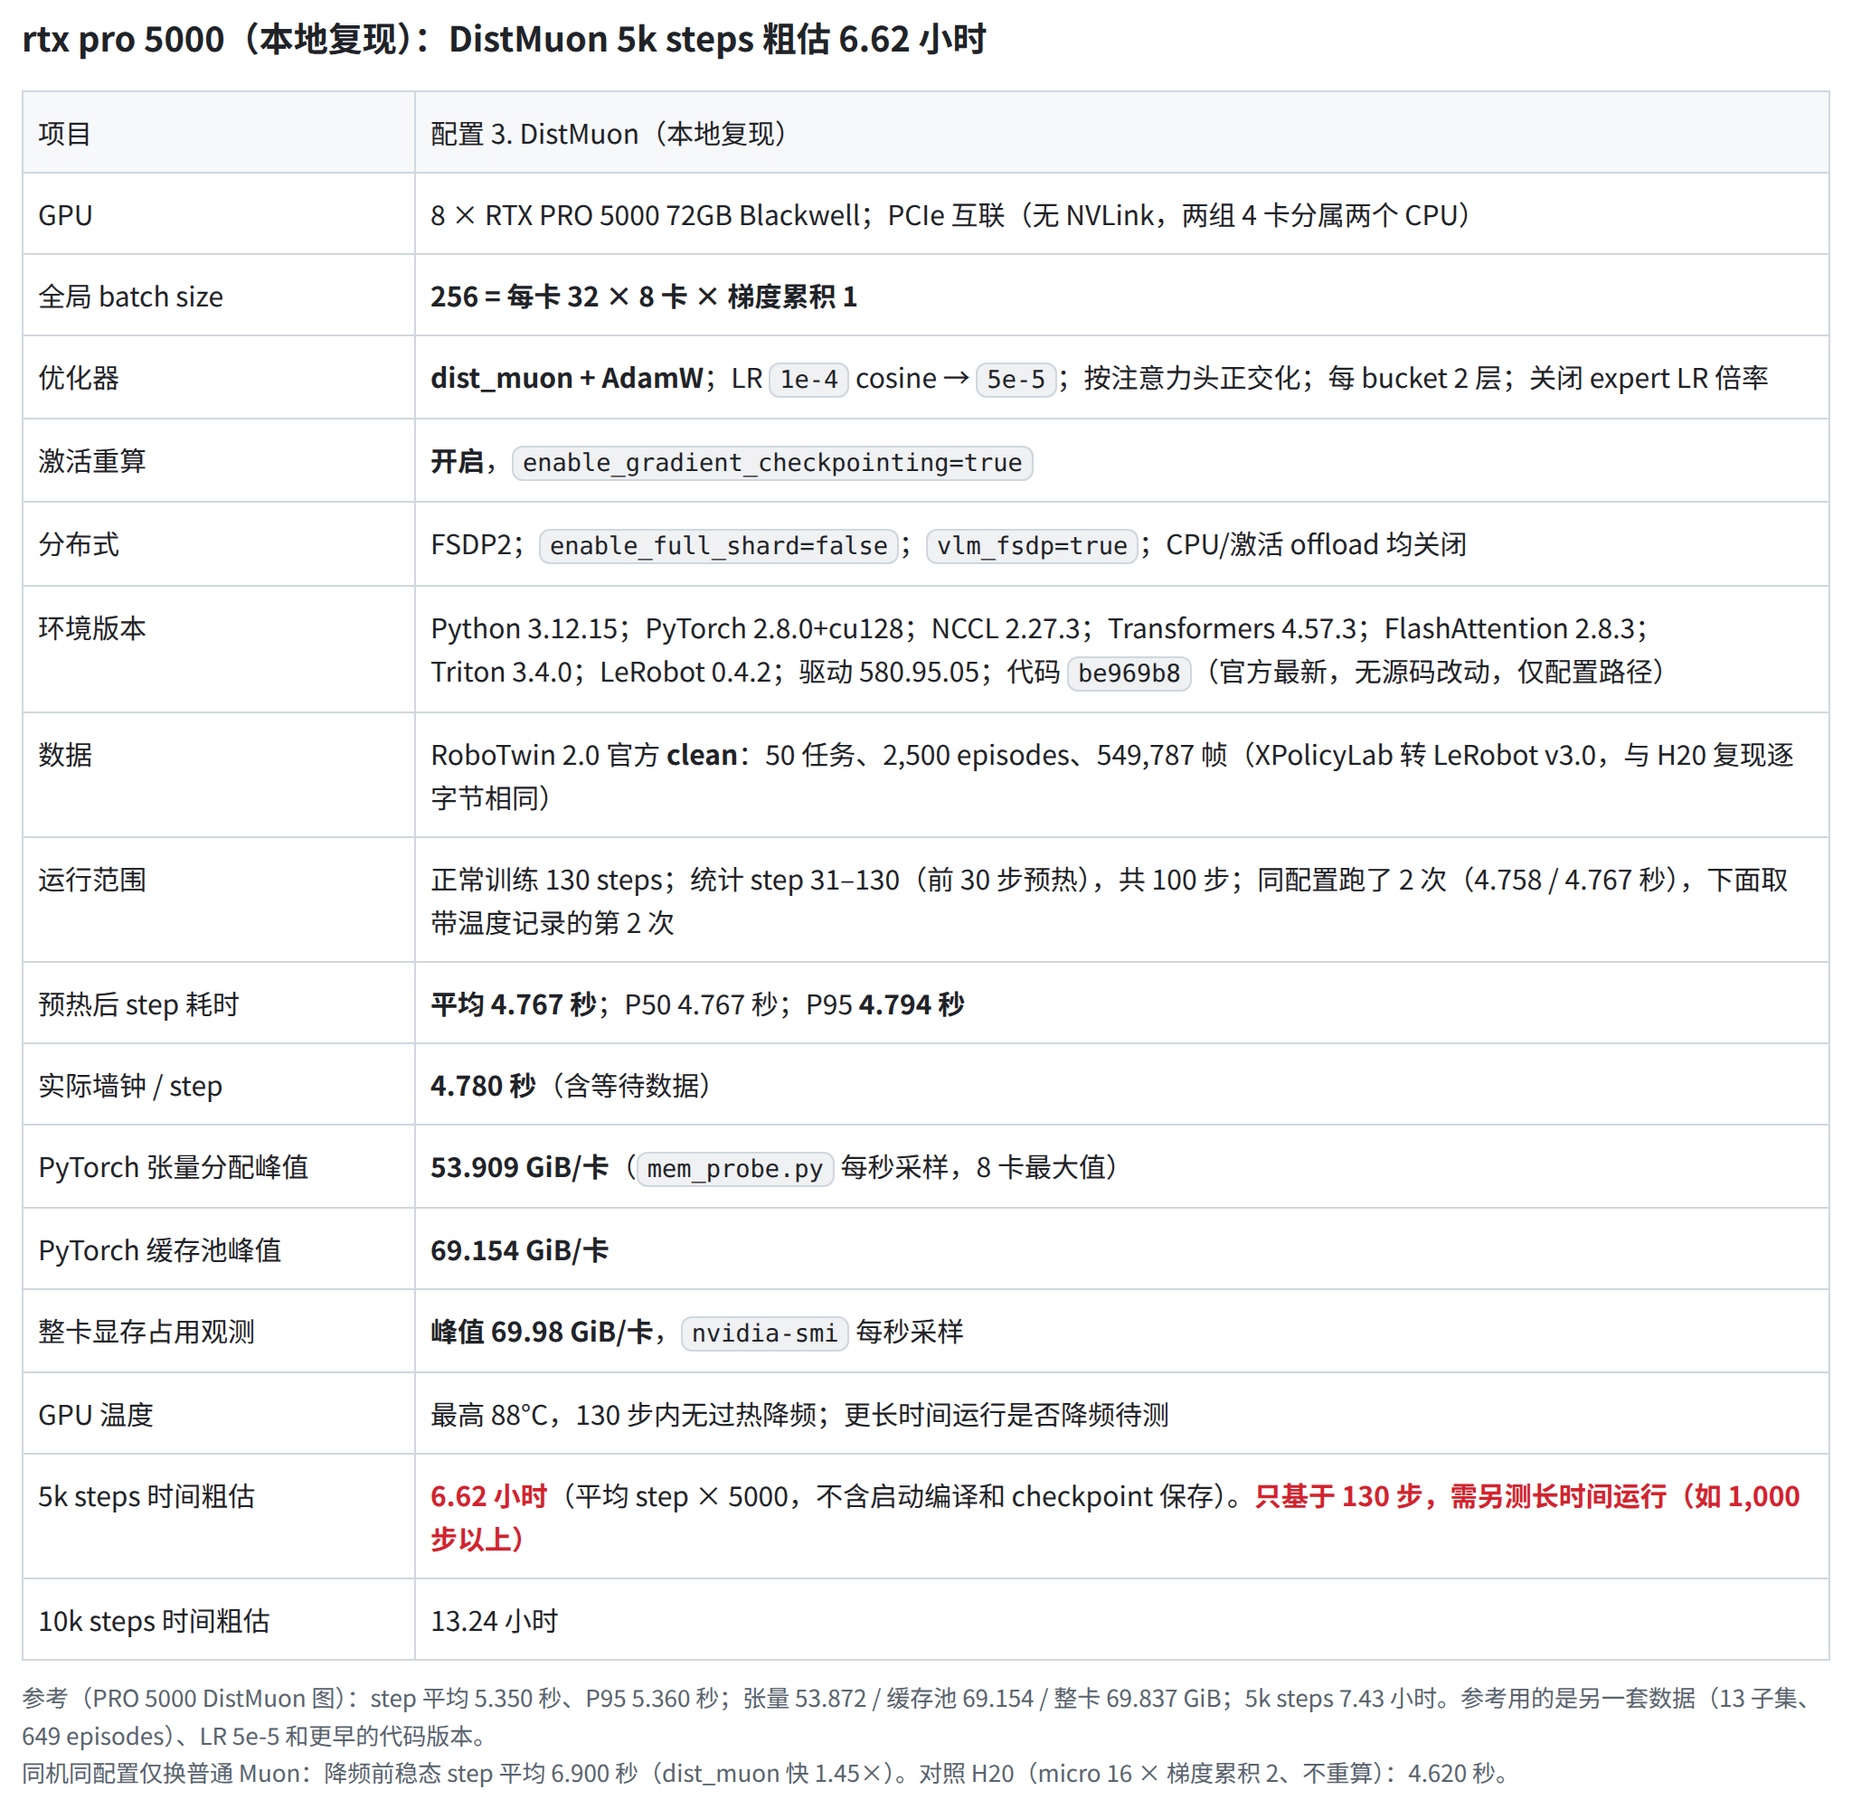
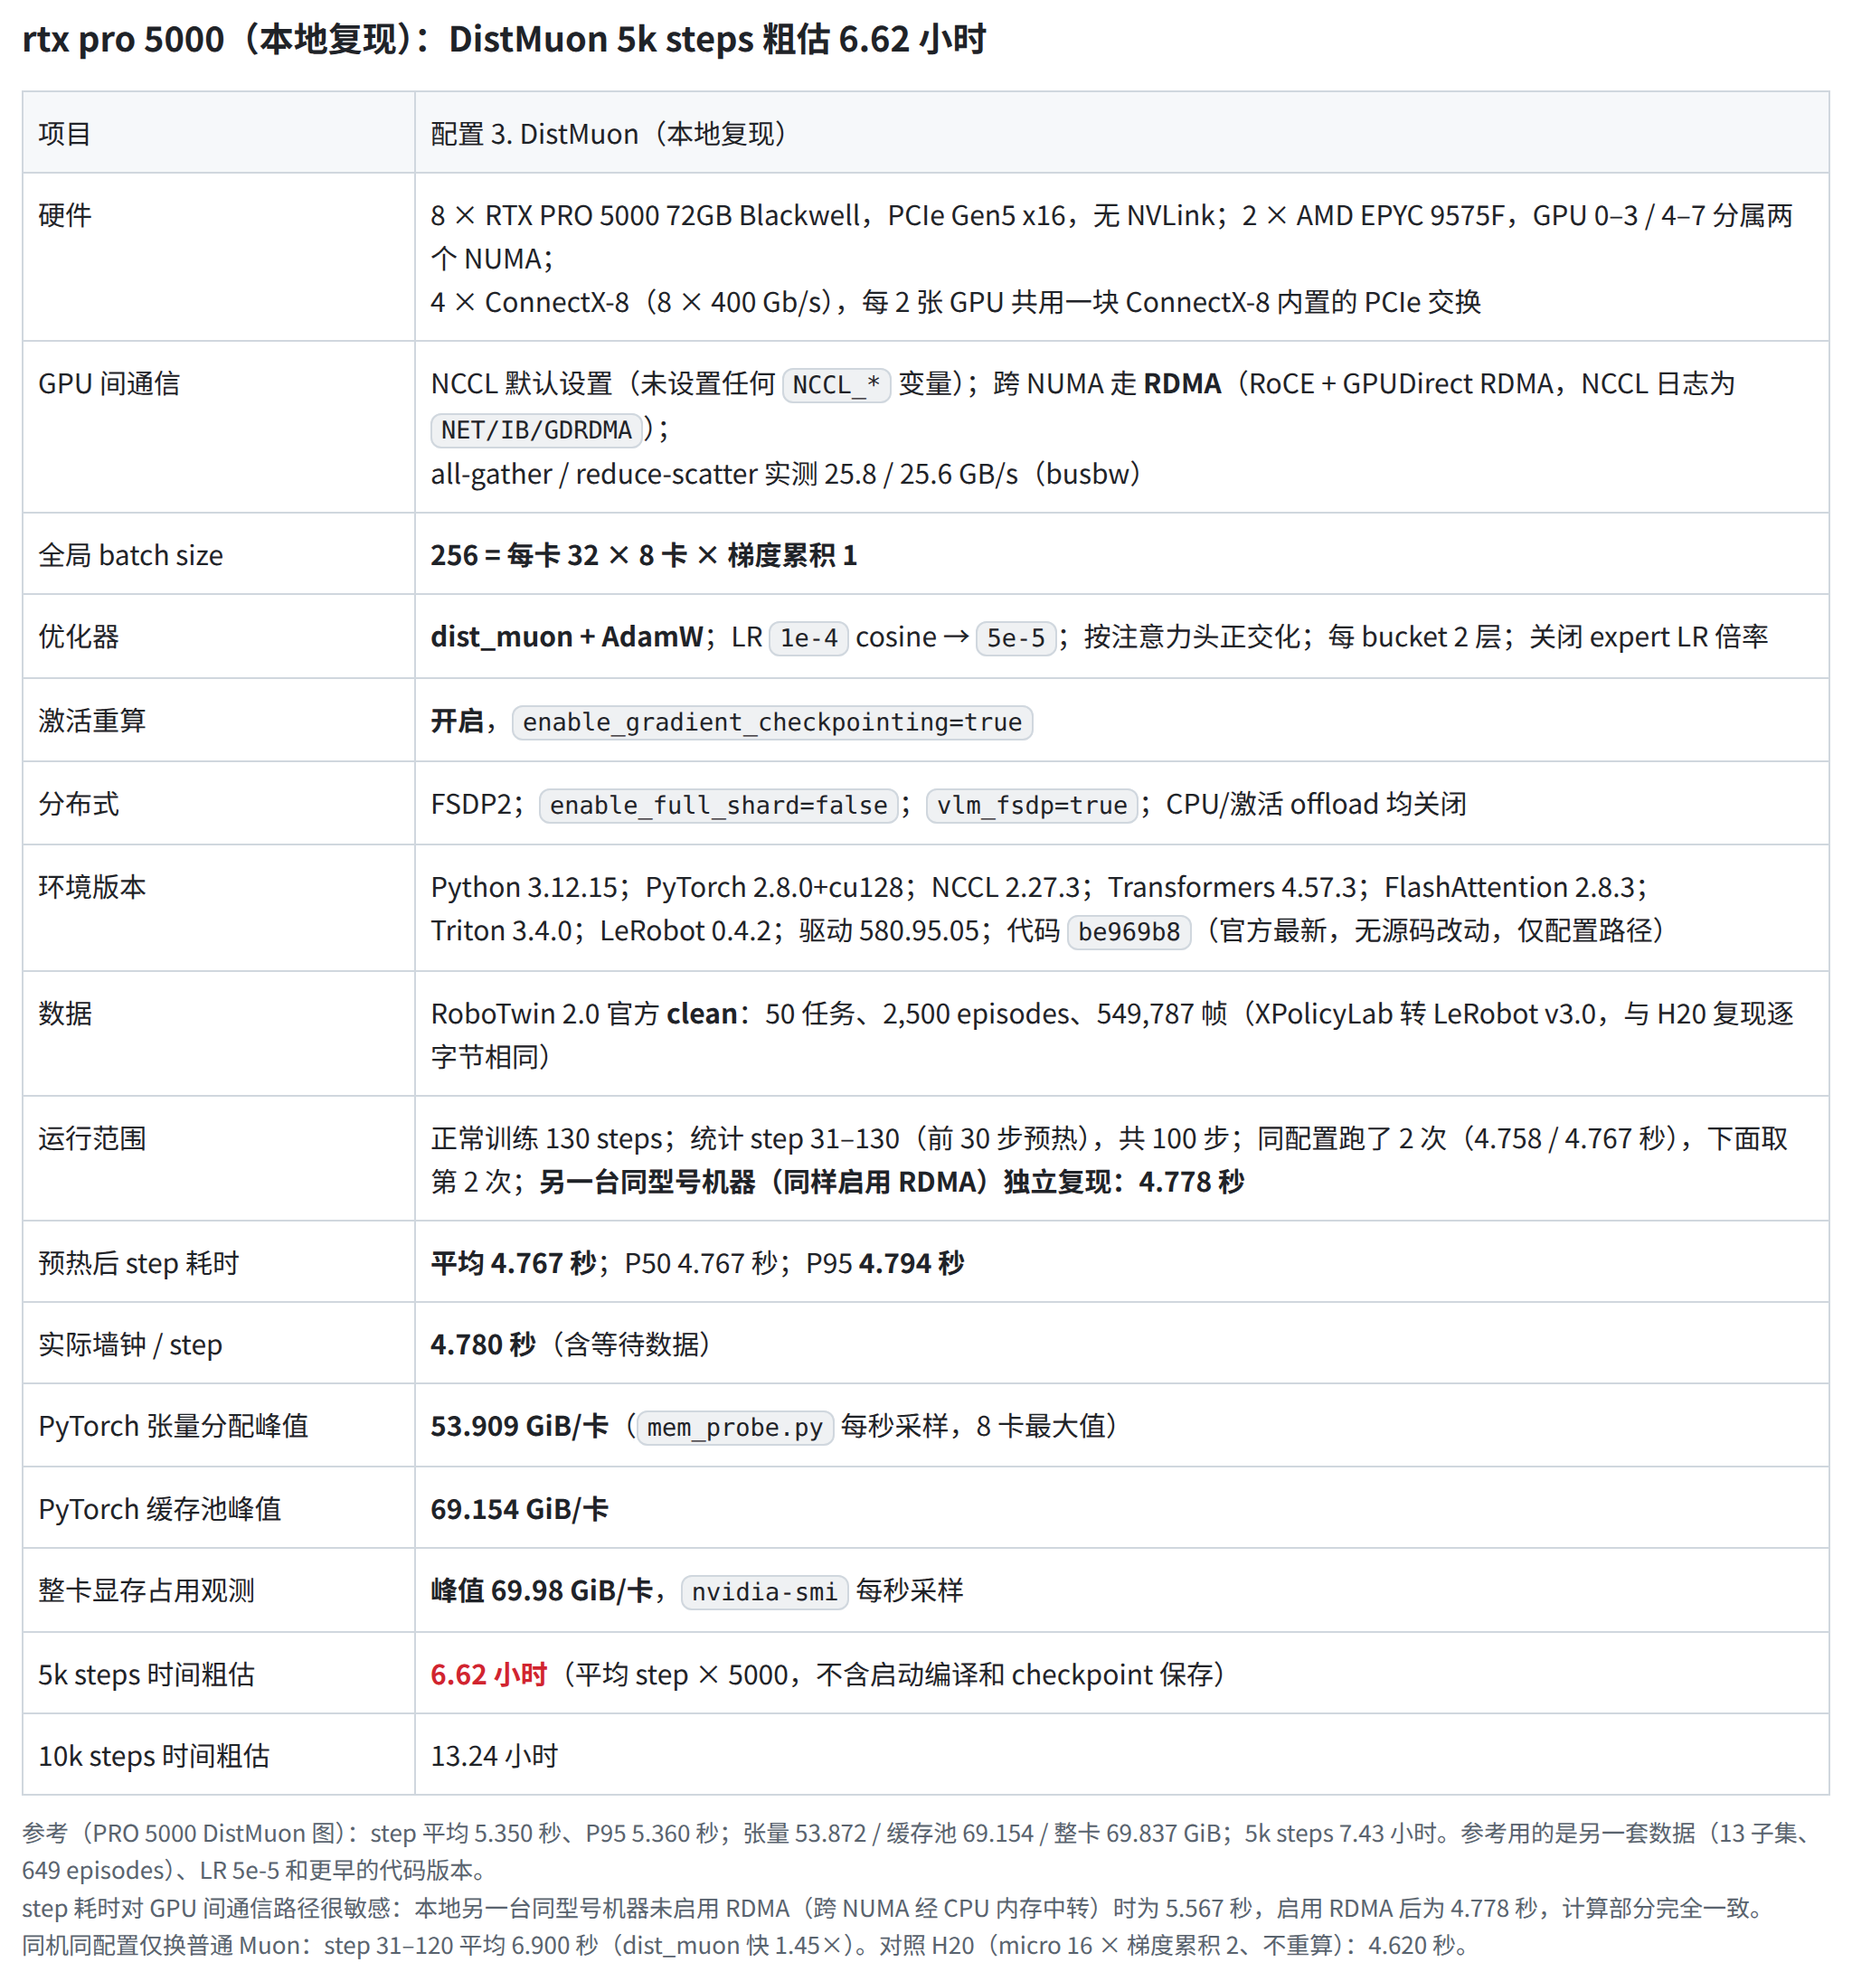
experiment: add RTX PRO 5000 DistMuon update and explain the RDMA difference

diff --git a/experiment/single_node_repro/PRO5000_DISTMUON_UPDATE.md b/experiment/single_node_repro/PRO5000_DISTMUON_UPDATE.md
@@ -1,0 +1,103 @@
+# RTX PRO 5000 单机 8 卡 DistMuon 测速更新
+
+本文汇总 8×RTX PRO 5000 上 Distributed Muon（DistMuon）的最新测速结果、本地两台机器测速不一致的原因，以及可以尝试的提速方法。复现步骤和完整数据见同目录的 [README](README.md)。
+
+## 1. 最新结果
+
+![RTX PRO 5000 DistMuon 本地复现](figures/pro5000_distmuon_repro.png)
+
+- 官方代码 `be969b8`，官方 `robotwin_dist_muon.yaml`，只改了数据和权重路径；micro 32 × 8 卡 × 梯度累积 1，开激活重算。
+- 预热后 step 耗时（step 31–130 平均）**4.767 秒**，P95 4.794 秒。另一台同型号机器独立复现为 **4.778 秒**，两者相差 0.2%。
+- 显存峰值 53.9 GiB（张量）/ 69.2 GiB（缓存池），与此前提供的 PRO 5000 测量一致。
+- H20 上的结果见 [figures/h20_distmuon_repro.png](figures/h20_distmuon_repro.png)（8×H20，4.620 秒/步）。
+
+## 2. 本地两台机器测速不一致的原因
+
+本地两台机器的硬件完全相同：
+
+| 项目 | 配置 |
+|---|---|
+| GPU | 8 × RTX PRO 5000 72GB，PCIe Gen5 x16，无 NVLink，驱动 580.95.05 |
+| CPU / NUMA | 2 × AMD EPYC 9575F，GPU 0–3 / 4–7 分属两个 NUMA |
+| 网卡 | 4 × ConnectX-8（8 × 400 Gb/s），每 2 张 GPU 共用一块 ConnectX-8 内置的 PCIe 交换 |
+| 软件 | PyTorch 2.8.0+cu128，NCCL 2.27.3，代码和数据相同 |
+
+但最初一台测得 5.567 秒/步，另一台 4.767 秒/步。对比 timeline 后发现，计算 kernel 和空闲时间基本相同，差距全部在 GPU 间通信上。
+
+原因是**慢的那台在容器里没有启用 RDMA**：
+
+- 这种机器上，同一 NUMA 内的 GPU 直接经 PCIe 通信；跨 NUMA 的 GPU（例如 GPU 3 和 GPU 4）则应该通过 ConnectX-8 网卡用 RDMA 直接传输（RoCE + GPUDirect RDMA），不经过 CPU。
+- 容器没有拿到 RDMA 设备时，NCCL 不会报错，而是自动改为经 CPU 内存中转（`SHM`）。训练照常进行，只是跨 NUMA 那一段变慢，整个环形通信都被拖慢。
+- 启用 RDMA 后，同一台机器从 5.567 秒降到 4.778 秒，与另一台一致。
+
+容器启用 RDMA 需要加三个参数：
+
+```bash
+docker run ... --network=host --device=/dev/infiniband --ulimit memlock=-1 ...
+```
+
+- `--device=/dev/infiniband`：把 RDMA 设备映射进容器（RoCE 网卡也在这个目录下）。不加时容器里看不到 RDMA 网卡。
+- `--ulimit memlock=-1`：RDMA 需要锁定收发数据的内存，docker 默认的上限太小，会导致 NCCL 放弃 RDMA。
+- `--network=host`：使用宿主机网络。RoCE 依赖网口的 IP 地址建立连接，容器独立的网络里看不到这些网口。
+
+GPUDirect RDMA 还需要宿主机加载 `nvidia_peermem` 内核模块（`lsmod | grep nvidia_peermem`）。
+
+## 3. 做过的实验
+
+### 3.1 NCCL 通信带宽
+
+用 [`coll_bw.py`](coll_bw.py) 测 all-gather / reduce-scatter 带宽（nccl-tests 的 busbw 定义，1–2 GB 消息，GB/s）。以下为启用 RDMA 时的结果，两台机器一致：
+
+| NCCL 设置 | all-gather | reduce-scatter |
+|---|---:|---:|
+| 默认（4 通道 × 512 线程） | 25.8 | 25.6 |
+| `NCCL_MIN_CTAS=8` | 26.0 | 26.2 |
+| `NCCL_NTHREADS=128` | 23.0 | 17.7 |
+| `NCCL_MIN_CTAS=8 NCCL_NTHREADS=128` | 24.9 | 23.5 |
+| `NCCL_PROTO=LL` | 约 9 | 约 9 |
+
+启用 RDMA 时，默认设置已经用满链路，调整 NCCL 参数没有收益。
+
+### 3.2 训练速度（DistMuon，step 31–130）
+
+| 跨 NUMA 通信 | NCCL 设置 | step 耗时 |
+|---|---|---:|
+| RDMA | 默认 | **4.767 / 4.778 秒**（两台机器） |
+| 经 CPU 内存中转（未启用 RDMA） | 默认 | 5.567 秒 |
+| 经 CPU 内存中转（未启用 RDMA） | `NCCL_MIN_CTAS=8` | 约 5.06 秒 |
+| 经 CPU 内存中转（未启用 RDMA） | `NCCL_MIN_CTAS=8 NCCL_NTHREADS=128` | 约 4.66 秒 |
+
+未启用 RDMA 的几行来自单次测量，统计区间与第一行略有不同，仅供参考。可以看到：
+
+- 跨 NUMA 通信走 RDMA 还是经 CPU 内存中转，对 step 耗时影响约 15%。
+- 没有 RDMA 时，NCCL 默认的 4 个通道用不满经 CPU 中转的链路；多开通道（`NCCL_MIN_CTAS=8`）可以补回大部分差距。
+
+## 4. 可以尝试的提速方法
+
+以下方法都不改训练代码。**实际效果取决于机器的硬件配置**（网卡型号和数量、GPU 与网卡的 PCIe 拓扑、是否支持 RDMA 等），不一定能达到上面的数字，建议按顺序在目标机器上实测。
+
+1. **先看当前的通信路径。**
+
+   ```bash
+   nvidia-smi topo -m          # GPU、网卡和 NUMA 的连接关系
+   NCCL_DEBUG=INFO NCCL_DEBUG_SUBSYS=INIT,ENV \
+     torchrun --nproc_per_node 8 experiment/single_node_repro/coll_bw.py
+   ```
+
+   - 日志里有 `NET/IB : Using ...`，且跨 NUMA 的通道是 `via NET/IB/.../GDRDMA`：已经在用 RDMA。
+   - 跨 NUMA 的通道是 `via SHM`：经 CPU 内存中转，没有用上 RDMA。
+   - 同时检查环境里是否设置过 `NCCL_*` 变量（`env | grep NCCL`），例如 `NCCL_NTHREADS` 调小会明显降低 reduce-scatter 带宽。
+
+2. **如果机器有支持 RDMA 的网卡，但没有用上**：按第 2 节给容器加上三个参数，并确认宿主机加载了 `nvidia_peermem`。这是最根本的改进。
+
+3. **如果没有 RDMA**：用 `coll_bw.py` 比较以下几组设置的带宽，选带宽最高的一组跑 130 步训练，与默认设置对比 step 耗时：
+
+   ```bash
+   torchrun --nproc_per_node 8 experiment/single_node_repro/coll_bw.py
+   NCCL_MIN_CTAS=8 torchrun --nproc_per_node 8 experiment/single_node_repro/coll_bw.py
+   NCCL_MIN_CTAS=8 NCCL_NTHREADS=128 torchrun --nproc_per_node 8 experiment/single_node_repro/coll_bw.py
+   ```
+
+   通道越多，NCCL 占用的 GPU 计算资源也越多，所以最终以训练的 step 耗时为准。已经启用 RDMA 的机器不建议调整这些参数。
+
+更多的训练侧优化（例如通信与计算的重叠）我们还在研究，有结论后再同步。

diff --git a/experiment/single_node_repro/README.md b/experiment/single_node_repro/README.md
@@ -271,19 +271,18 @@ NCCL_DEBUG=INFO NCCL_DEBUG_SUBSYS=INIT,ENV,TUNING torchrun --nproc_per_node 8 ex
 
 **不同 8×RTX PRO 5000 机器的 DistMuon 速度**（micro 32 × 8 × GA 1，开激活重算）：
 
-| | A（本复现） | B（默认） | B（调 NCCL） | C |
-|---|---|---|---|---|
-| CPU / NUMA | 2 × AMD EPYC 9575F，2 个 NUMA | 未提供 | 同左 | 未提供，2 个 NUMA |
-| GPU 连接 | PCIe Gen5，无 NVLink；每 2 张卡共用一块 ConnectX-8 的 PCIe 交换 | 未提供 | 同左 | PCIe，无 NVLink；8 卡分在 2 个 NUMA |
-| 跨 NUMA 通信 | 网卡 + GPU 直连（`NET/IB/GDRDMA`） | 未提供 | 同左 | 未提供 |
-| NCCL 版本 | 2.27.3 | 未提供 | 同左 | 2.27.3 |
-| NCCL 环境变量 | 无 | 无 | `NCCL_MIN_CTAS=8`<br>`NCCL_NTHREADS=128`<br>并 unset `NCCL_MIN/MAX_NCHANNELS`、`NCCL_MIN/MAX_NRINGS`、`NCCL_ALGO`、`NCCL_PROTO`、`NCCL_THREAD_THRESHOLDS` | 未提供 |
-| NCCL 实际通道 × 每通道线程 | 4 × 512 | 未提供 | 8 × 128 | 未提供 |
-| all-gather / reduce-scatter 带宽 | 25.8 / 25.6 GB/s（busbw） | 未测 | 未测 | 约 29 / 20 GB/s（口径未知） |
-| 代码 | 本分支 | 本分支 | 本分支 | 更早的版本；优化器通信先转 BF16 |
-| step 耗时 | **4.767 s** | **5.567 s** | **约 4.66 s** | **5.350 s** |
+| | A（本复现） | B（未启用 RDMA） | B（未启用 RDMA，调 NCCL） | B（启用 RDMA） | C |
+|---|---|---|---|---|---|
+| CPU / NUMA | 2 × AMD EPYC 9575F，2 个 NUMA | 同 A | 同 A | 同 A | 未提供，2 个 NUMA |
+| GPU 连接 | PCIe Gen5，无 NVLink；每 2 张卡共用一块 ConnectX-8 的 PCIe 交换 | 同 A | 同 A | 同 A | PCIe，无 NVLink；8 卡分在 2 个 NUMA |
+| 跨 NUMA 通信 | 网卡 + GPU 直连（`NET/IB/GDRDMA`） | 经 CPU 内存中转（`SHM`） | 经 CPU 内存中转（`SHM`） | 同 A | 未提供 |
+| NCCL 版本 | 2.27.3 | 2.27.3 | 2.27.3 | 2.27.3 | 2.27.3 |
+| NCCL 环境变量 | 无 | 无 | `NCCL_MIN_CTAS=8`<br>`NCCL_NTHREADS=128` | 无 | 未提供 |
+| all-gather / reduce-scatter 带宽 | 25.8 / 25.6 GB/s（busbw） | 未测 | 未测 | 25.8 / 25.6 GB/s（busbw） | 约 29 / 20 GB/s（口径未知） |
+| 代码 | 本分支 | 本分支 | 本分支 | 本分支 | 更早的版本；优化器通信先转 BF16 |
+| step 耗时 | **4.767 s** | **5.567 s** | **约 4.66 s** | **4.778 s** | **5.350 s** |
 
-- 同样的代码，机器 B 用默认 NCCL 设置时比 A 慢约 0.8 s/步，改 NCCL 设置后与 A 相当，差距都在通信上；在 A 上同样的设置反而略慢（见上一张表）。
+- 机器 B 与 A 硬件相同。B 最初在容器里没有启用 RDMA（缺少 `--network=host --device=/dev/infiniband --ulimit memlock=-1`），跨 NUMA 的通信经 CPU 内存中转，比 A 慢约 0.8 s/步；启用 RDMA 后与 A 一致。未启用 RDMA 时，调大 NCCL 通道数也能补回大部分差距；启用 RDMA 后同样的设置反而略慢（见上一张表）。详见 [PRO5000_DISTMUON_UPDATE.md](PRO5000_DISTMUON_UPDATE.md)。
 - 机器之间的速度差主要来自各自 NCCL 默认设置能否用满链路。换机器时，先用 `coll_bw.py` 和 `NCCL_DEBUG=INFO` 看带宽、通道数和每段连接的方式，再决定要不要调 NCCL 设置。
 
 **优化器通信改成 BF16**：官方 DistMuon（`lingbotvla/optim/flex_shard/dist_muon.py`）每步要在卡之间做两次 all-to-all：先把动量更新后的梯度发到负责计算的卡上，算完 Newton-Schulz 后再把更新方向发回去，两次都按参数的 dtype（FP32）传输。
@@ -311,6 +310,7 @@ NCCL_DEBUG=INFO NCCL_DEBUG_SUBSYS=INIT,ENV,TUNING torchrun --nproc_per_node 8 ex
 | `mem_probe.py` | 启动包装：训练代码不改，每秒记录各卡 PyTorch 显存峰值 |
 | `nsys_probe.py` | 启动包装：训练代码不改，标出 step 和 optimizer.step 的 NVTX 区间，并在指定 step 开关 nsys 录制 |
 | `nsys_rank0.sh` | `NSYS_STEPS` 打开时由 torchrun 调用：rank 0 在 nsys 下运行，其他 rank 正常运行 |
+| `PRO5000_DISTMUON_UPDATE.md` | RTX PRO 5000 DistMuon 测速更新：结果、两台机器测速不一致的原因（RDMA）、可尝试的提速方法 |
 | `coll_bw.py` | 测 all-gather / reduce-scatter 带宽，用来比较 NCCL 设置和不同机器 |
 | `summarize_run.py` | 统计 step 耗时、墙钟、loss、显存峰值，并标出过热降频的 GPU |
 | `figures/` | 8 张结果和参考图，见"结果 → 图" |
